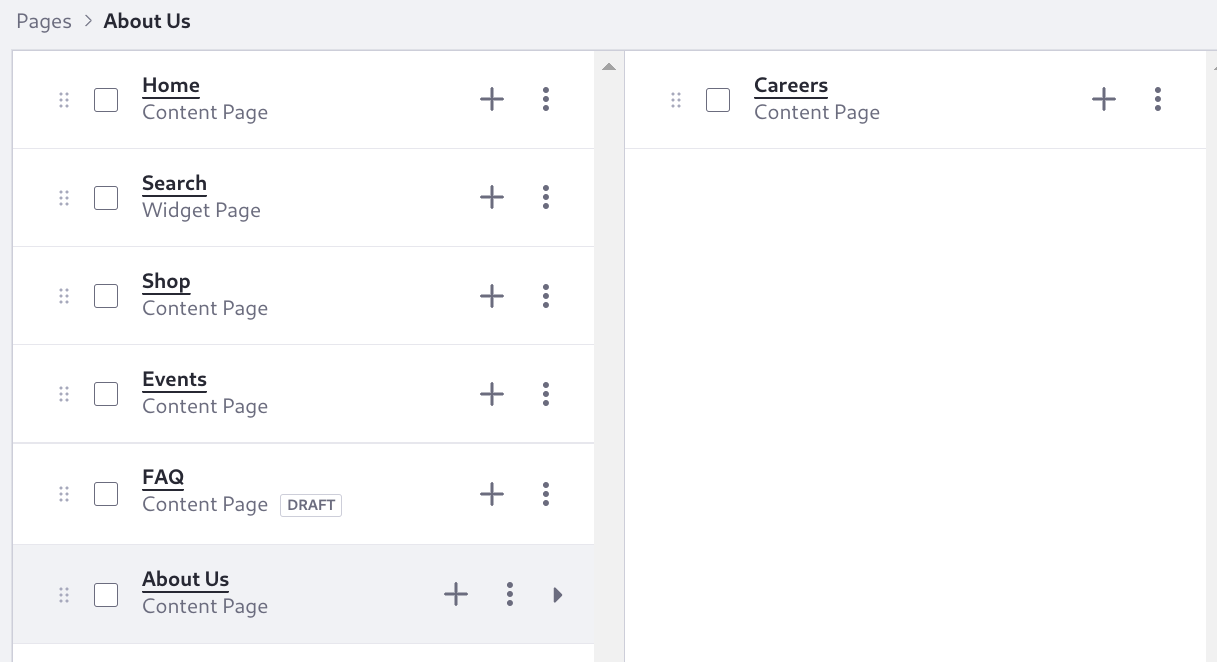
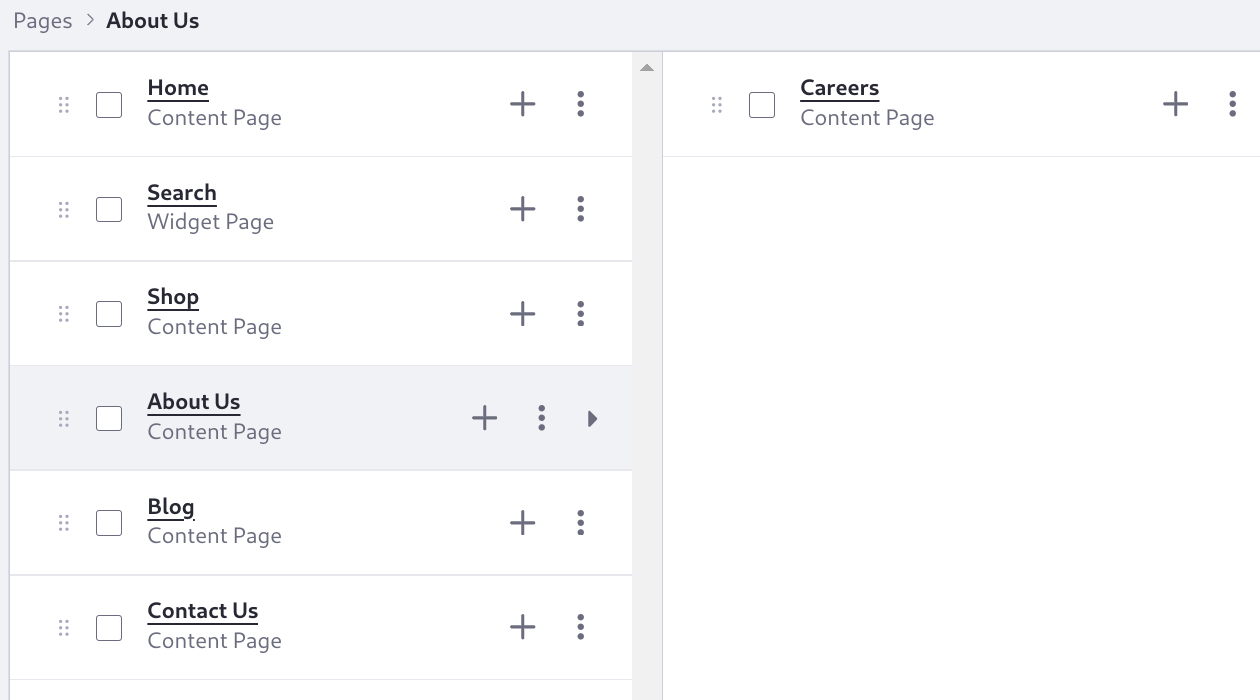
LRDOCS-12131 resource conversion (DB > Clarity), article splitting

diff --git a/docs/courses/latest/en/web-site-manager/creating-pages/importing-fragments-and-resources/resources/liferay-q9c4.zip/clarity-fragments/fragments/sign-in-intranet/index.html b/docs/courses/latest/en/web-site-manager/creating-pages/importing-fragments-and-resources/resources/liferay-q9c4.zip/clarity-fragments/fragments/sign-in-intranet/index.html
@@ -5,17 +5,15 @@ themeDisplay.getSiteGroup().getFriendlyURL() /]
 	<div class="form-box">
 		<a href="${themeDisplay.getPathFriendlyURLPublic() + themeDisplay.getSiteGroup().getFriendlyURL()}">
 			<div class="sign-in-logo">
-				<lfr-editable id="logo" type="image">
 					<img
-						alt="Delectable Bonsai Logo"
[1 lines of base64/hex data omitted]
+						alt="Clarity Logo"
+						src="[resources:clarity-logo-small.png]"
 					/>
-				</lfr-editable>
 			</div>
 		</a>
 		<div class="sign-in-form">
 			<h1 class="font-weight-normal sign-in-text">
-				Delectable delights await. Sign in.
+				See and be seen. Sign in.
 			</h1>
 
 			<div class="sign-in-widget">

diff --git a/docs/courses/latest/en/web-site-manager/creating-pages/importing-fragments-and-resources/resources/liferay-q9c4.zip/clarity-fragments/fragments/user-nav-dropdown/index.html b/docs/courses/latest/en/web-site-manager/creating-pages/importing-fragments-and-resources/resources/liferay-q9c4.zip/clarity-fragments/fragments/user-nav-dropdown/index.html
@@ -1,7 +1,7 @@
 [#assign publicFriendlyURL = themeDisplay.getPathFriendlyURLPublic() + themeDisplay.getSiteGroup().getFriendlyURL()/]
 
 [#if !themeDisplay.isSignedIn()]
-<a class="user-sign-in" href="${publicFriendlyURL}/sign-in">
+<a class="user-sign-in" href="/c/portal/login">
 	<span class="user-sign-in-icon">
 		[@clay["icon"] symbol="user"/]
 	</span>

diff --git a/docs/courses/latest/en/web-site-manager/creating-pages/importing-fragments-and-resources/resources/liferay-q9c4.zip/clarity-fragments/fragments/sign-in-intranet/index.css b/docs/courses/latest/en/web-site-manager/creating-pages/importing-fragments-and-resources/resources/liferay-q9c4.zip/clarity-fragments/fragments/sign-in-intranet/index.css
@@ -1,6 +1,10 @@
 .sign-in {
-    display: flex;
-    height: 100%;
+	background-image: url([resources:clarity-sign-in-image5.png]);
+	background-position: right;
+	background-repeat: no-repeat;
+	background-size: cover;
+	display: flex;
+	height: 100%;
 }
 
 .form-box {

diff --git a/docs/courses/latest/en/web-site-manager/creating-pages/adding-the-sign-in-page.md b/docs/courses/latest/en/web-site-manager/creating-pages/adding-the-sign-in-page.md
@@ -1,11 +1,15 @@
+---
+uuid: 8a5b9052-7825-496a-a772-8d854eec7a61
+---
 # Adding the Sign In Page
 
-<!-- copied from completing-the-site-structure.md -->
-1. Log out. On any page, click the user icon and choose _Sign Out_ from the drop-down menu. Currently the custom fragment controlling the logout link uses the default Liferay logout URL: `c/portal/logout`.
+Users can currently log into Clarity by clicking _Sign In_ in the user menu in the header. The fragment providing this experience uses the default Liferay login URL, `/c/portal/login`. Clarity needs a custom sign-in page with a consistent look and feel.
 
-1. Test the Sign In page. On any page, click the user icon and _Sign In_ link. Currently the custom fragment controlling the sign-in link uses the default Liferay login URL: `c/portal/login`. This activates the default Sign In widget on any page where it's invoked. However, it's currently ugly with the Clarity master page applied to it:
+1. Log out. On any page, click the user icon and choose _Sign Out_ from the drop-down menu. Currently the custom fragment controlling the logout link uses the default Liferay logout URL: `/c/portal/logout`.
 
-   ![The default sign in widget clashes with the master page.](./completing-the-site-structure/images/07.png)
+1. Test the Sign In page. On any page, click the user icon and _Sign In_ link. Currently the custom fragment controlling the sign-in link uses the default Liferay login URL: `/c/portal/login`. This activates the default Sign In widget on any page where it's invoked. However, it's currently ugly with the Clarity master page applied to it:
+
+   ![The default sign in widget clashes with the master page.](./adding-the-sign-in-page/images/07.png)
 
 1. Clarity needs a better sign in experience. Next you'll add a custom sign in page.
 
@@ -13,7 +17,7 @@
 
 1. Open the *Options* menu (![Options](../../images/icon-options.png)) in the administrative bar at the top of the page and click _Configure_.
 
-   ![Configure the sign-in page.](./completing-the-site-structure/images/08.png)
+   ![Configure the sign-in page.](./adding-the-sign-in-page/images/08.png)
 
 1. On the General page setting screen, once again enable _Hidden from Menu Display_ so the sign in page does not appear in the Menu Display widget's navigation menu. Note the friendly URL, `/sign-in`, and click _Save_.
 
@@ -25,17 +29,13 @@
 
 1. Use the back arrow at the top of the page to go back to the content page editor, then add the imported fragment called Sign In.
 
-1. In the Sign In fragment's Styles configuration, set the background image to use the `sign_in` image from Documents and Media. 
-
-1. Set the logo to use the `DB Green - 1W` image. 
-
 1. Publish the page.
 
-   ![The sign in page is in place.](./completing-the-site-structure/images/09.png)
+   ![The sign in page is in place.](./adding-the-sign-in-page/images/09.png)
 
-1. Now edit the custom user navigation fragment to point to the new login page instead of `c/portal/login`. Go to *Site* menu (![Product Menu](../../images/icon-product-menu.png)) &rarr; *Design* &rarr; *Fragments*. 
+1. Now edit the custom user navigation fragment to point to the new login page instead of `/c/portal/login`. Go to *Site Menu* (![Product Menu](../../images/icon-product-menu.png)) &rarr; *Design* &rarr; *Fragments*.
 
-1. Open the `user-nav_Dropdown` fragment and find the line setting the login URL:
+1. Open the `user-nav_Dropdown` fragment. In the HTML pane, find the line setting the login URL:
 
    ```html
    <a class="user-sign-in" href="/c/portal/login">
@@ -47,13 +47,22 @@
    <a class="user-sign-in" href="${publicFriendlyURL}/sign-in">
    ```
 
+   That `publicFriendlyURL` variable is set in the first line of the HTML using FreeMarker syntax:
+
+   ```html
+   [#assign publicFriendlyURL = themeDisplay.getPathFriendlyURLPublic() +
+      themeDisplay.getSiteGroup().getFriendlyURL() /]
+   ```
+
 1. Click _Publish_.
 
-   <!-- The change needs to be propagated to the fragment in use. Requires setting Propagate Fragment Changes Automatically in Instance Settings -> Page Fragments. Alternatively, do the manual propagation method and maybe also mention that there's a setting that can be used in testing/dev scenarios. -->
+1. Propagate the new fragment code to fragments that are in use on a page or master page. Open the fragment's *Actions* (![Actions](../../images/icon-actions.png)) menu and click *View Usages*.
+
+1. Select all the listed usages, then click *Propagate* (![Propagate](../../images/icon-propagate.png)). See [Propagating Fragment Changes](https://learn.liferay.com/en/w/dxp/site-building/creating-pages/page-fragments-and-widgets/using-fragments/propagating-fragment-changes) to learn more.
 
 1. From any page, log out, then click _Sign In_. You're redirected to the new page, where you can sign in.
 
-   ![Sign in using the new page.](./completing-the-site-structure/images/10.png)
+   ![Sign in using the new page.](./adding-the-sign-in-page/images/10.png)
 
 Don't be concerned with the gray background for now. The custom sign-in fragment's CSS styles the `form-box` class like this:
 
@@ -73,7 +82,7 @@ Setting the background color to a brand color variable like this is a good pract
 
 Now Clarity's site structure is in place. However, the navigation menu is pretty basic, and could use some enhancements. 
 
-   ![The navigation menu is okay, but it could use some enhancements.](./completing-the-site-structure/images/05.png)
+   ![The navigation menu is okay, but it could use some enhancements.](./adding-the-sign-in-page/images/05.png)
 
 Clarity next needs a [new navigation menu](./creating-navigation-menus.md) so that it behaves exactly as desired.
 
@@ -82,3 +91,11 @@ Clarity next needs a [new navigation menu](./creating-navigation-menus.md) so th
 * [Adding Pages to a Site](https://learn.liferay.com/en/w/dxp/site-building/creating-pages/adding-pages/adding-a-page-to-a-site)
 * [Working with Search Pages](https://learn.liferay.com/en/w/dxp/using-search/search-pages-and-widgets/working-with-search-pages/search-pages)
 * [Searching for Content](https://learn.liferay.com/en/w/dxp/using-search/getting-started/searching-for-content)
+
+<!-- These steps are from an earlier version where the lfr-editable tag was used in the fragment HTML to set the logo, and the background image was simply set using the regular container style setting for background (because the fragment is wrapped in a div
+1. In the Sign In fragment's Styles configuration, set the background image to use the `sign_in` image from Documents and Media. 
+
+1. Set the logo to use the `clarity-logo` image. 
+
+-->
+

diff --git a/docs/courses/latest/en/web-site-manager/creating-pages/completing-the-site-structure.md b/docs/courses/latest/en/web-site-manager/creating-pages/completing-the-site-structure.md
@@ -7,9 +7,9 @@ Now that the home page is in place and the master page is able to define the hea
 
 - Home
 - Shop
-- Events
-- FAQ
+- Blogs
 - About Us
+- Contact Us
 - Careers
 
 1. While logged in as the site administrator, Preston Palmer, open the Site menu (![Product Menu](../../images/icon-product-menu.png)), then click _Site Builder_ &rarr; _Pages_.
@@ -20,7 +20,7 @@ Now that the home page is in place and the master page is able to define the hea
 
 1. Open the *Actions* menu next to the Search page, then click _Delete_. Confirm the deletion when the warning menu appears.
 
-1. Test search after deleting the page. Navigate to the home page and enter _test_ in the search bar.
+1. Test search after deleting the page. Navigate to the home page and click _Search_ (![Search](../../images/icon-search.png)).
 
    Nothing happens. You deleted the search page, and now the search bar can't function properly.
 
@@ -44,9 +44,9 @@ Now that the home page is in place and the master page is able to define the hea
 
    ![The search results and facets are part of the search page template.](./completing-the-site-structure/images/06.png)
 
-   Consider why this search worked. You added a search bar widget to the master page's header and a search page in the site. How did the search bar know to send you to the search page? It's all in the configuration. The friendly URL of a page named Search defaults to `/search`, and the search bar configuration has a setting called Destination Page, and it also defaults to `/search`. The search page's friendly URL must match its search bar's Destination Page setting.
+   Consider why this search worked. You added a search bar widget to the master page's header and a search page in the site. How did the search bar know to send you to the search page? It's all in the configuration. The friendly URL of a page named Search defaults to `/search`, and the search bar configuration uses the same value in its Destination Page setting. The search page's friendly URL must match its search bar's Destination Page setting.
 
-1. Now create the important e-commerce storefront page, where site visitors can buy Clarity's products. Go back to the pages administration page. Click *Add* (![Add](./../../images/icon-add.png)), then click _Page_. Select the _Del Bonsai_ page template and enter the name _Shop_.
+1. Now create the important e-commerce storefront page, where site visitors can buy Clarity's products. Go back to the pages administration page. Click *Add* (![Add](./../../images/icon-add.png)), then click _Page_. Select the _Clarity MP_ page template and enter the name _Shop_.
 
 1. In the content page editor, click _Publish_. The header and footer you defined for Clarity are now in place.
 
@@ -54,9 +54,9 @@ Now that the home page is in place and the master page is able to define the hea
 
 1. Repeat the same procedure to create these content pages, configured to use the master page:
 
-   - Events
-   - FAQ
    - About Us
+   - Blog
+   - Contact Us
 
 1. Create a [child page](https://learn.liferay.com/en/w/dxp/site-building/site-navigation/managing-page-hierarchies) of the About Us page, called Careers. Click *Add* (![Add](../../images/icon-plus.png)) next to About Us, and then follow the same page creation procedure. You can also drag existing top-level pages onto other pages to nest them.
 
